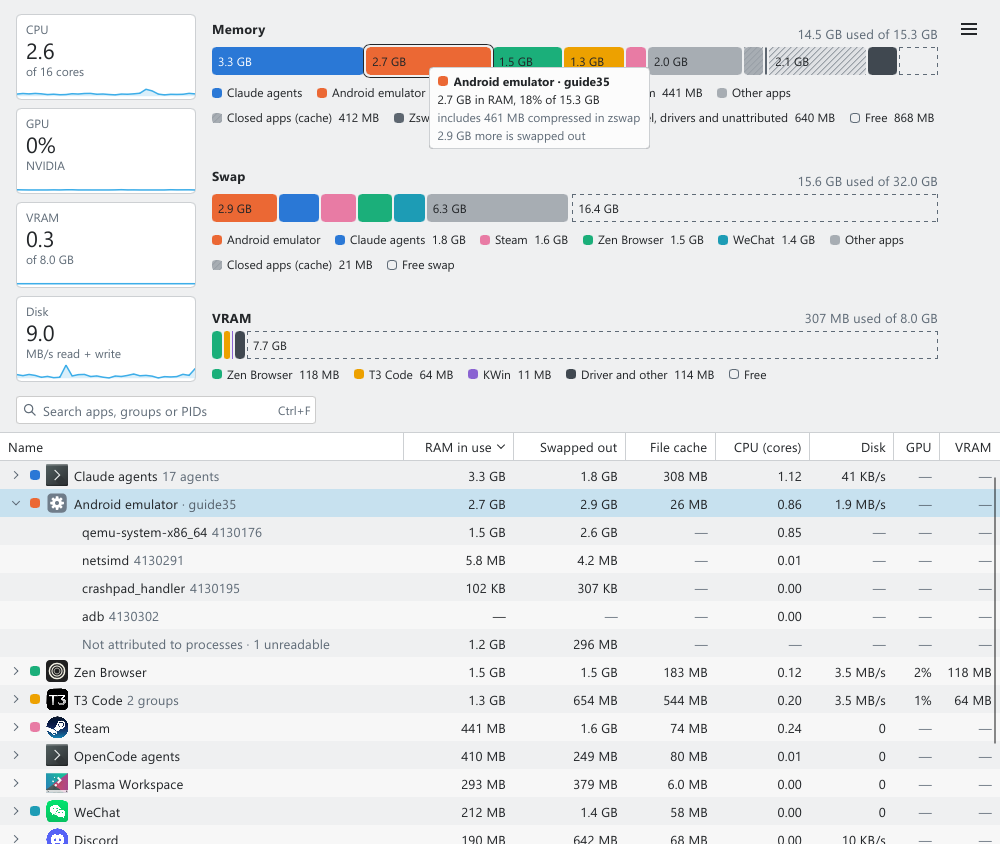
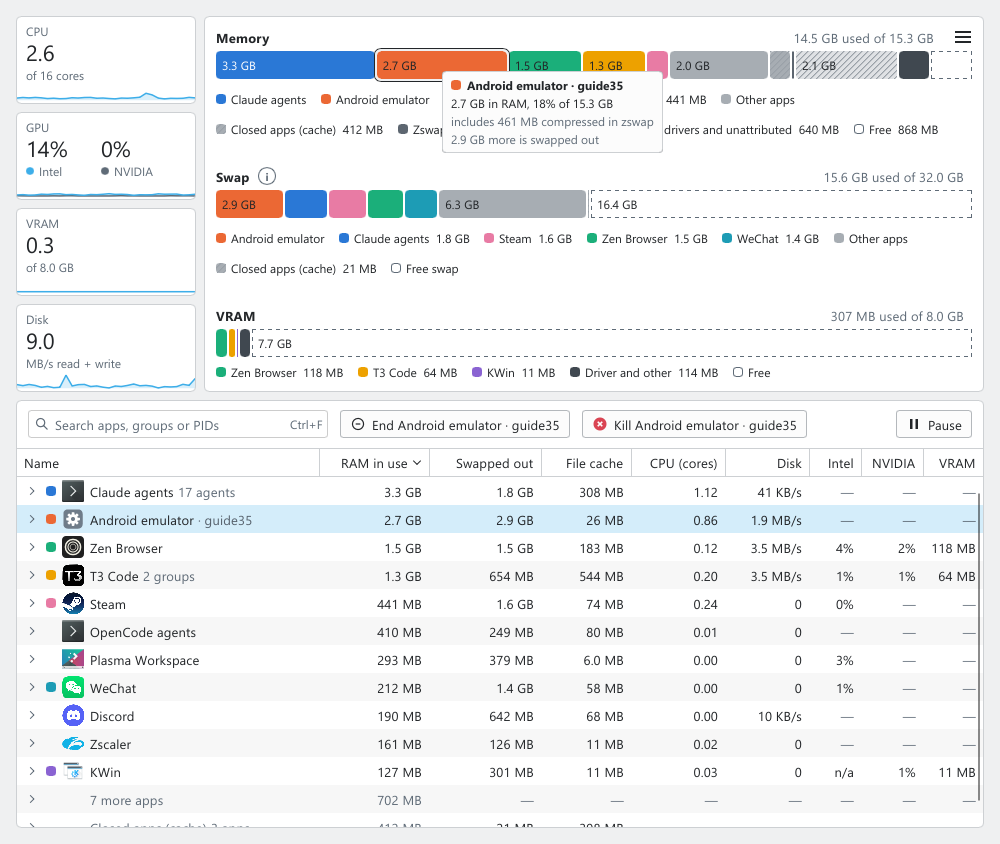
SebWatch 0.2.0: version bump, README and screenshots (#83)

diff --git a/README.md b/README.md
@@ -15,8 +15,8 @@
 </p>
 
 <p align="center">
-  <img src="docs/readme/breeze-light.png" alt="SebWatch in Breeze Light: CPU, GPU, VRAM and disk tiles with their last minute as a graph, RAM, swap and VRAM bars split by app beside them, and the app table with the Android emulator expanded into its processes" />
-  <br /><sub>Breeze Light, with the Android emulator expanded into its processes</sub>
+  <img src="docs/readme/breeze-light.png" alt="SebWatch in Breeze Light: CPU, GPU, VRAM and disk tiles with their last minute as a graph, RAM, swap and VRAM bars split by app beside them, and the app table with the Android emulator selected, ready to End or Kill" />
+  <br /><sub>Breeze Light, with the Android emulator selected</sub>
 </p>
 
 <table>
@@ -41,6 +41,9 @@
   that started it.
 - **Live.** It refreshes every 2 seconds while you look at it and does nothing while minimised.
   Nothing is recorded: the tiles' small graphs keep only the last minute, in memory.
+- **End a stuck app.** Select a row and End it, or Kill it if it won't go. Pause freezes the
+  window while you look. Only your own apps, never anyone else's.
+- **On Win+Esc.** On KDE Plasma it takes over Win+Esc from System Monitor.
 - **No daemon, no root.** Everything comes from files a normal user can read.
 - **At home on KDE Plasma.** Breeze Light and Breeze Dark follow the desktop's light or dark, or
   pick the SebChat theme from the menu.
@@ -50,7 +53,7 @@
 | Needs | Why |
 |---|---|
 | **Linux** with cgroup v2 and a systemd user session | Each app the desktop starts runs in its own group, which is what SebWatch reads |
-| **NVIDIA driver** (optional) | For GPU and VRAM readings; without it the VRAM bar and the GPU and VRAM tiles are hidden, and the table shows — in their columns |
+| **NVIDIA driver** (optional) | For NVIDIA GPU and VRAM readings; without it the VRAM bar and the VRAM tile are hidden, and the table shows — in their columns. Intel and AMD GPUs are read without a driver of their own |
 | **Rust** (stable) and the fontconfig and xkbcommon development packages | Only to build it yourself: `fontconfig-devel libxkbcommon-devel` on Fedora |
 
 Each [release](https://github.com/S-Sebb/SebWatch/releases) has two packages:
@@ -59,13 +62,13 @@ Each [release](https://github.com/S-Sebb/SebWatch/releases) has two packages:
   and remove it with `sudo dnf remove sebwatch`:
 
   ```sh
-  sudo dnf install https://github.com/S-Sebb/SebWatch/releases/download/v0.1.0/sebwatch-0.1.0-1.x86_64.rpm
+  sudo dnf install https://github.com/S-Sebb/SebWatch/releases/download/v0.2.0/sebwatch-0.2.0-1.x86_64.rpm
   ```
 
 - **Any other distribution:** the AppImage. Make it executable and run it:
 
   ```sh
-  chmod +x SebWatch-0.1.0-x86_64.AppImage && ./SebWatch-0.1.0-x86_64.AppImage
+  chmod +x SebWatch-0.2.0-x86_64.AppImage && ./SebWatch-0.2.0-x86_64.AppImage
   ```
 
 Or build it from a checkout:
@@ -86,7 +89,7 @@ Pressing it again while SebWatch is open brings its window to the front. `script
 the AppImage, or to change it by hand:
 
 ```sh
-sebwatch --bind-win-esc      # the AppImage: ./SebWatch-0.1.0-x86_64.AppImage --bind-win-esc
+sebwatch --bind-win-esc      # the AppImage: ./SebWatch-0.2.0-x86_64.AppImage --bind-win-esc
 sebwatch --unbind-win-esc    # before removing it, to give Win+Esc back to System Monitor
 ```
 
